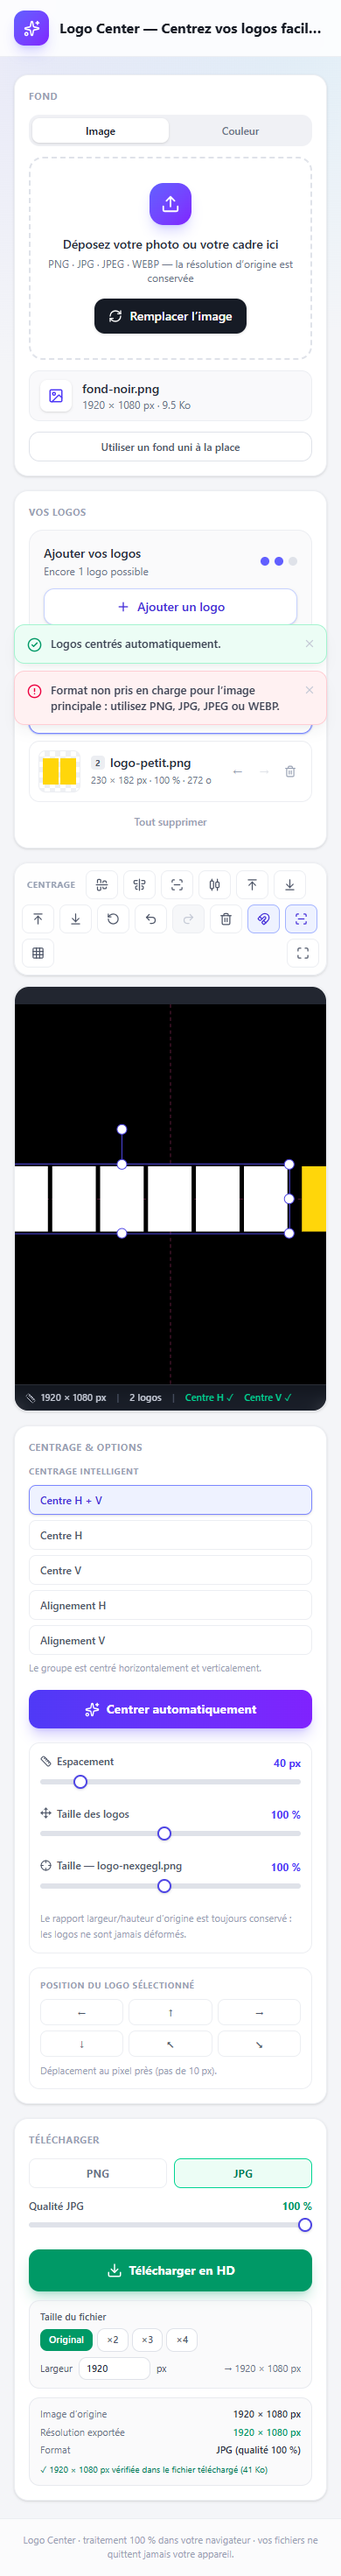
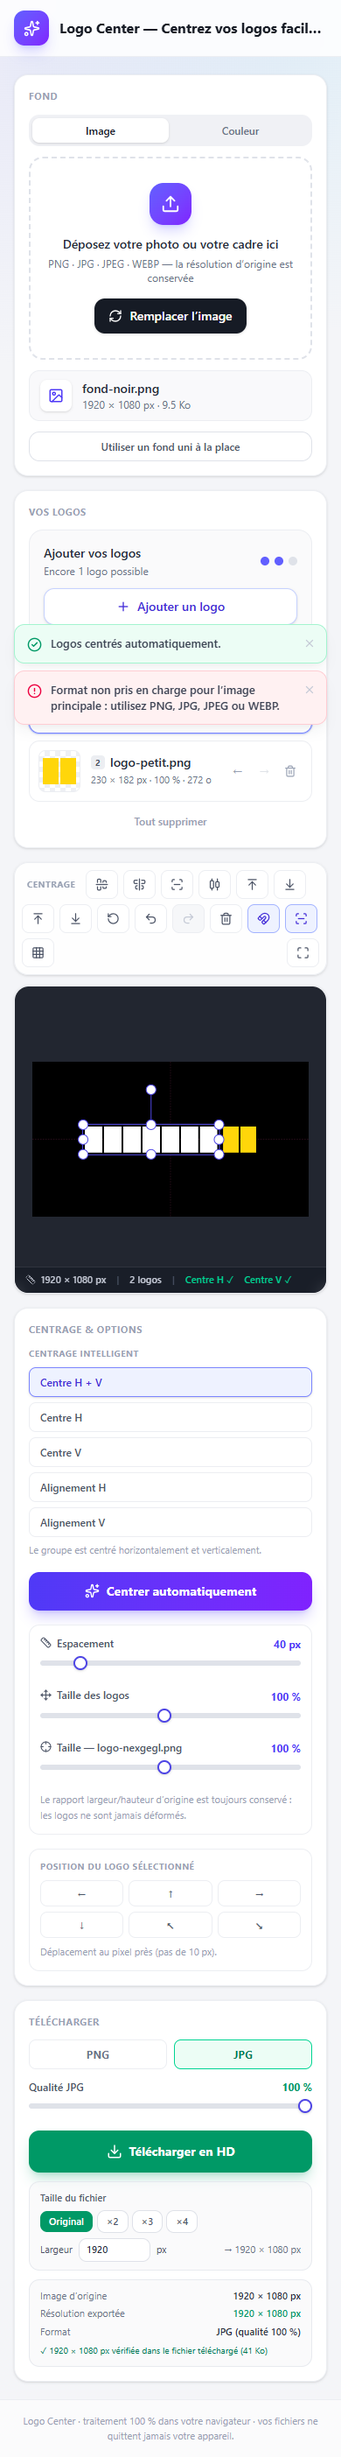
Supprime tout zoom : le fond s'affiche toujours en entier, a la taille choisie
Plus aucun zoom ni dezoom : ni bouton, ni molette, ni pincement. L'echelle est
toujours celle qui fait tenir le fond entier dans la fenetre, et seule la taille
de la fenetre la change.

- CanvasEditor : suppression du zoom a la molette (mouse:wheel) et du pincement
  au toucher, du ResizeObserver conditionnel, de fitZoomRef et de setZoom /
  getZoom du handle imperatif. applyZoom ne recoit plus que le facteur de fit.
- App : l'astuce ne mentionne plus la molette.
- Les 5 formats de fond sont verifies exactement, a l'ecran ET dans le fichier :
  1920x1080, 1080x1080, 2048x2048, 2480x3508 et 3508x2480. Le panneau annonce
  la bonne taille, le canvas a le bon rapport, et le fichier exporte fait
  exactement les pixels demandes.
- E2E : la molette et le pincement ne changent plus la taille du canvas, et le
  fond reste entier dans une fenetre plus petite.
- README : tableau des 5 formats, et mention explicite de l'absence de zoom.

24 sections E2E, npm test et npm run lint au vert.

diff --git a/src/components/CanvasEditor.tsx b/src/components/CanvasEditor.tsx
@@ -44,8 +44,6 @@ export interface EditorApi {
   applySnapshot: (snapshot: EditorSnapshot) => void
   captureSnapshot: (spacing: number) => EditorSnapshot
   fitToScreen: () => void
-  setZoom: (zoom: number) => void
-  getZoom: () => number
   getFrame: () => FrameSize
   getBoxes: () => Box[]
   isReady: () => boolean
@@ -116,9 +114,7 @@ export const CanvasEditor = forwardRef<EditorApi, CanvasEditorProps>(function Ca
   const snapRef = useRef(snapEnabled)
   const activeIdRef = useRef(activeId)
   const zoomRef = useRef(1)
-  const fitZoomRef = useRef(1)
   const syncingFromReact = useRef(false)
-  const gestureRef = useRef<{ distance: number; zoom: number } | null>(null)
 
   // Latest callbacks, kept in refs so that the fabric listeners (registered
   // once) always call the current version without being re-registered.
@@ -352,9 +348,14 @@ export const CanvasEditor = forwardRef<EditorApi, CanvasEditorProps>(function Ca
   }, [])
 
   /* ------------------------------------------------------------------ */
-  /*                                Zoom                                */
+  /*                          Fit to the viewport                        */
   /* ------------------------------------------------------------------ */
 
+  /**
+   * The only zoom that exists: whatever makes the whole plate visible. There is
+   * no wheel, no pinch and no zoom button, so this is always the fit factor and
+   * `next` comes from `computeFitZoom` alone.
+   */
   const applyZoom = useCallback((next: number) => {
     const canvas = canvasRef.current
     const currentFrame = frameRef.current
@@ -379,9 +380,7 @@ export const CanvasEditor = forwardRef<EditorApi, CanvasEditorProps>(function Ca
   }, [])
 
   const fitToScreen = useCallback(() => {
-    const zoom = computeFitZoom()
-    fitZoomRef.current = zoom
-    applyZoom(zoom)
+    applyZoom(computeFitZoom())
   }, [applyZoom, computeFitZoom])
 
   /* ------------------------------------------------------------------ */
@@ -626,24 +625,6 @@ export const CanvasEditor = forwardRef<EditorApi, CanvasEditorProps>(function Ca
       handlers.current.onCommit('move', previous)
     }
 
-    const handleMouseWheel = (opt: fabric.TPointerEventInfo<WheelEvent>) => {
-      const event = opt.e
-      event.preventDefault()
-      event.stopPropagation()
-      const delta = event.deltaY
-      const factor = 0.999 ** delta
-      const next = clamp(zoomRef.current * factor, MIN_ZOOM, MAX_ZOOM)
-      const zoom = canvas.getZoom()
-      if (zoom === next) return
-      canvas.zoomToPoint(new fabric.Point(event.offsetX, event.offsetY), next)
-      zoomRef.current = next
-      canvas.setDimensions({
-        width: (frameRef.current?.width ?? canvas.getWidth() / zoom) * next,
-        height: (frameRef.current?.height ?? canvas.getHeight() / zoom) * next,
-      })
-      canvas.requestRenderAll()
-    }
-
     canvas.on('selection:created', handleSelection)
     canvas.on('selection:updated', handleSelection)
     canvas.on('selection:cleared', handleSelection)
@@ -671,7 +652,6 @@ export const CanvasEditor = forwardRef<EditorApi, CanvasEditorProps>(function Ca
     canvas.on('object:moving', handleObjectMoving)
     canvas.on('object:scaling', handleScaling)
     canvas.on('object:modified', handleModified)
-    canvas.on('mouse:wheel', handleMouseWheel)
 
     return () => {
       canvas.off()
@@ -776,64 +756,15 @@ export const CanvasEditor = forwardRef<EditorApi, CanvasEditorProps>(function Ca
     }
   }, [activeId, geometrySignature])
 
-  // Keep the "fit" zoom in sync with the container size.
+  // The plate always fills the available space: the zoom is whatever fits, so
+  // a resize simply re-fits. There is no user-controlled zoom any more.
   useEffect(() => {
     const shell = shellRef.current
     if (!shell || typeof ResizeObserver === 'undefined') return
-    const observer = new ResizeObserver(() => {
-      const currentFrame = frameRef.current
-      if (!currentFrame) return
-      const zoom = computeFitZoom()
-      fitZoomRef.current = zoom
-      // Only re-fit automatically while the user is at the previous fit zoom.
-      if (Math.abs(zoomRef.current - fitZoomRef.current) < 0.001 || Math.abs(zoomRef.current - 1) < 0.001) {
-        applyZoom(zoom)
-      }
-    })
+    const observer = new ResizeObserver(() => applyZoom(computeFitZoom()))
     observer.observe(shell)
     return () => observer.disconnect()
   }, [applyZoom, computeFitZoom])
-
-  // Pinch to zoom on touch devices.
-  useEffect(() => {
-    const shell = shellRef.current
-    if (!shell) return
-
-    const getDistance = (touches: TouchList) => {
-      const [a, b] = [touches[0], touches[1]]
-      return Math.hypot(a.clientX - b.clientX, a.clientY - b.clientY)
-    }
-
-    const onTouchStart = (event: TouchEvent) => {
-      if (event.touches.length !== 2) return
-      gestureRef.current = { distance: getDistance(event.touches), zoom: zoomRef.current }
-    }
-
-    const onTouchMove = (event: TouchEvent) => {
-      const gesture = gestureRef.current
-      if (!gesture || event.touches.length !== 2) return
-      event.preventDefault()
-      const distance = getDistance(event.touches)
-      const next = clamp((gesture.zoom * distance) / gesture.distance, MIN_ZOOM, MAX_ZOOM)
-      if (Math.abs(next - zoomRef.current) < 0.0005) return
-      applyZoom(next)
-    }
-
-    const onTouchEnd = () => {
-      gestureRef.current = null
-    }
-
-    shell.addEventListener('touchstart', onTouchStart, { passive: true })
-    shell.addEventListener('touchmove', onTouchMove, { passive: false })
-    shell.addEventListener('touchend', onTouchEnd)
-    shell.addEventListener('touchcancel', onTouchEnd)
-    return () => {
-      shell.removeEventListener('touchstart', onTouchStart)
-      shell.removeEventListener('touchmove', onTouchMove)
-      shell.removeEventListener('touchend', onTouchEnd)
-      shell.removeEventListener('touchcancel', onTouchEnd)
-    }
-  }, [applyZoom])
 
   /* ------------------------------------------------------------------ */
   /*                          Imperative API                            */
@@ -981,13 +912,11 @@ export const CanvasEditor = forwardRef<EditorApi, CanvasEditorProps>(function Ca
         }),
       }),
       fitToScreen,
-      setZoom: (zoom: number) => applyZoom(zoom),
-      getZoom: () => zoomRef.current,
       getFrame: () => frameRef.current ?? { width: 0, height: 0 },
       getBoxes: () => readBoxes(),
       isReady: () => canvasRef.current !== null,
     }),
-    [applyBoxes, applyZoom, emitGroupStats, fitToScreen, getLogoObjects, logos, readBoxes, runLayout],
+    [applyBoxes, emitGroupStats, fitToScreen, getLogoObjects, logos, readBoxes, runLayout],
   )
 
   return (

diff --git a/scripts/e2e.ts b/scripts/e2e.ts
@@ -1594,7 +1594,104 @@ async function main() {
     await page5.close()
 
     /* ---------------------------------------------------------------- */
-    console.log('\n[23] Aucune erreur JavaScript')
+    console.log('\n[23] Les 5 formats de fond, et aucun zoom possible')
+    // The five presets must be honoured exactly, on screen and in the file.
+    // Zoom is gone: no wheel, no pinch, no button, so the plate always shows
+    // whole and the exported file is the size that was chosen.
+    const page6 = await browser.newPage()
+    await page6.setViewport({ width: 1600, height: 1000, deviceScaleFactor: 1 })
+    await page6.goto(URL, { waitUntil: 'networkidle0' })
+    await new Promise((resolve) => setTimeout(resolve, 500))
+    await page6.evaluate(snippetClickText(['Partir d’un fond noir']))
+    await page6.waitForSelector('canvas.upper-canvas', { timeout: 20000 })
+    await new Promise((resolve) => setTimeout(resolve, 800))
+    // The export button stays disabled without a logo, so add one.
+    await uploadLogos(page6, [fixtures.alfia])
+    await page6.waitForFunction('/alfia/i.test(document.body.innerText)', { timeout: 20000 })
+    await new Promise((resolve) => setTimeout(resolve, 600))
+    const PRESETS: [string, number, number][] = [
+      ['1920 × 1080 — 16:9', 1920, 1080],
+      ['1080 × 1080 — 1:1', 1080, 1080],
+      ['2048 × 2048 — 1:1', 2048, 2048],
+      ['2480 × 3508 — A4 portrait', 2480, 3508],
+      ['3508 × 2480 — A4 paysage', 3508, 2480],
+    ]
+    const screenBox = () =>
+      page6.evaluate(`
+        (function () {
+          var el = document.querySelector('canvas.lower-canvas');
+          return el ? [el.width, el.height] : null;
+        })()
+      `) as Promise<number[] | null>
+    for (const [label, width, height] of PRESETS) {
+      const picked = await page6.evaluate(snippetClickText([label], true))
+      await new Promise((resolve) => setTimeout(resolve, 700))
+      const box = await screenBox()
+      // The panel and the status bar must state the chosen size.
+      const shown = (await page6.evaluate('document.body.innerText')).includes(`→ ${width} × ${height} px`)
+      const ratio = box ? box[0] / box[1] : 0
+      const shapeOk = Math.abs(ratio - width / height) < 0.02
+      const exported = (await exportOnce(page6, downloadDir)) as { savedTo?: string }
+      const disk = exported.savedTo ? readFileDimensions(exported.savedTo) : null
+      check(
+        `${label} : taille annoncée, forme à l’écran et fichier`,
+        picked !== null &&
+          shown &&
+          shapeOk &&
+          disk !== null &&
+          disk.width === width &&
+          disk.height === height,
+        `-> annoncé ${shown ? 'oui' : 'non'} · écran ${JSON.stringify(box)} · fichier ${disk ? `${disk.width}x${disk.height}` : 'non exporté'}`,
+      )
+    }
+    // Zoom attempts must all be ignored.
+    const beforeZoom = await screenBox()
+    for (let i = 0; i < 5; i++) {
+      await page6.mouse.move(700, 500)
+      await page6.mouse.wheel({ deltaY: -240 })
+    }
+    await new Promise((resolve) => setTimeout(resolve, 500))
+    check(
+      'la molette ne zoome plus',
+      JSON.stringify(await screenBox()) === JSON.stringify(beforeZoom),
+      `-> ${JSON.stringify(beforeZoom)} avant, ${JSON.stringify(await screenBox())} après`,
+    )
+    await page6.evaluate(`
+      (function () {
+        var el = document.querySelector('canvas.upper-canvas');
+        function t(type, points) {
+          var list = points.map(function (p, i) {
+            return new Touch({ identifier: i, target: el, clientX: p[0], clientY: p[1] });
+          });
+          el.dispatchEvent(new TouchEvent(type, {
+            touches: list, targetTouches: list, changedTouches: list, bubbles: true, cancelable: true,
+          }));
+        }
+        t('touchstart', [[600, 400], [700, 500]]);
+        t('touchmove', [[400, 200], [900, 700]]);
+        t('touchend', []);
+        return true;
+      })()
+    `)
+    await new Promise((resolve) => setTimeout(resolve, 500))
+    check(
+      'le pincement ne zoome plus',
+      JSON.stringify(await screenBox()) === JSON.stringify(beforeZoom),
+      `-> ${JSON.stringify(await screenBox())}`,
+    )
+    // A smaller window must still show the whole plate, never a crop.
+    await page6.setViewport({ width: 1100, height: 800, deviceScaleFactor: 1 })
+    await new Promise((resolve) => setTimeout(resolve, 800))
+    const shrunk = await screenBox()
+    check(
+      'le fond entier reste visible dans une fenêtre plus petite',
+      shrunk !== null && shrunk[0] <= 1100 && shrunk[1] <= 800,
+      `-> canvas ${JSON.stringify(shrunk)} pour un fond 3508 × 2480`,
+    )
+    await page6.close()
+
+    /* ---------------------------------------------------------------- */
+    console.log('\n[24] Aucune erreur JavaScript')
     const relevant = consoleErrors.filter((e) => !/favicon|404|Failed to load resource/i.test(e))
     check('aucune erreur console', relevant.length === 0, `-> ${relevant.slice(0, 5).join(' | ')}`)
 

diff --git a/src/App.tsx b/src/App.tsx
@@ -999,7 +999,7 @@ function Intro({
 
         <p className="mt-6 flex items-center justify-center gap-2 text-xs text-ink-400">
           <MousePointerClick size={14} />
-          Astuce : molette pour zoomer, glisser-déposer pour déplacer, poignée pour redimensionner.
+                  Astuce : glisser-déposer pour déplacer, poignée pour redimensionner.
         </p>
       </div>
     </div>

diff --git a/README.md b/README.md
@@ -17,9 +17,11 @@ Tout se passe **dans le navigateur** : aucune donnée n’est envoyée sur un se
   `alignement vertical`.
 - Ajustements fins : bord gauche / droit / haut / bas, distribution horizontale, pas à pas de 1 px.
 - Déplacement et redimensionnement à la souris (ratio jamais déformé, redimensionnement autour
-  du centre), ajustement à l’écran d’un clic.
-- **Pas de boutons zoom / dézoom** : l’écran montre le fond entier, le bouton **Ajuster** remet la
-  vue en place. Le zoom à la molette et au pincement reste disponible pour inspecter un détail.
+  du centre).
+- **Aucun zoom, ni dézoom** : ni bouton, ni molette, ni pincement. Le fond est toujours affiché en
+  entier, à la taille qui tient dans la fenêtre, et la seule chose qui change l’échelle est le
+  redimensionnement de la fenêtre. Le fond affiché a toujours le même rapport que celui demandé,
+  donc un `2480 × 3508` se voit en portrait, entier, jamais rogné.
 - Aimant optionnel, grille, repères de centrage, annuler / rétablir.
 - Export **PNG ou JPG à la résolution d’origine**, sans interface, sans repères, sans grille.
 
@@ -30,8 +32,17 @@ Le fond n’est pas obligé d’être une photo. Au premier écran, on choisit e
 
 - **Image** : la photo, le cadre ou le fond de votre choix, à sa résolution d’origine.
 - **Couleur** : un sélecteur de couleur, 6 préréglages (noir, blanc, gris clair, gris, gris foncé,
-  marine) et un champ largeur × hauteur en pixels, plus 5 formats courants (16:9, 1:1, A4 portrait et
-  paysage). Le préréglage noir est proposé dès l’accueil, c’est le cas le plus courant.
+  marine) et un champ largeur × hauteur en pixels, plus 5 formats courants :
+
+  | Format | Définition |
+  | --- | --- |
+  | 16:9 | 1920 × 1080 |
+  | 1:1 | 1080 × 1080 |
+  | 1:1 | 2048 × 2048 |
+  | A4 portrait | 2480 × 3508 |
+  | A4 paysage | 3508 × 2480 |
+
+  Le préréglage noir est proposé dès l’accueil, c’est le cas le plus courant.
 
 Le fond uni n’est pas un simple aplat d’aperçu : à l’export, le canvas est **rempli** avec la couleur
 sur toute la surface, donc un fond agrandi reste parfaitement net. Comme pour une image, la taille
@@ -143,6 +154,7 @@ Node**, sans navigateur : c’est la seule vérification que l’application ne 
 | fond uni **noir 1920 × 1080** | 790 px | **1920 × 1080** | — | coins (0, 0, 0) |
 | fond uni **gris #9ca3af** | 790 px | **1920 × 1080** | — | coins (156, 163, 175) |
 | fond uni **gris 1080 × 1080** | 790 px | **1080 × 1080** | — | groupe centré 540 / 540 |
+| fond uni **A4 portrait 2480 × 3508** | 790 px | **2480 × 3508** | — | annoncé et fichier conformes |
 
 Le test de netteté est **calibré** : en forçant une miniature à 40 % à l’import, le logo à rayures
 perd toutes ses transitions (198 → 0) et la rampe passe de 1 px à 206 px. La mesure est donc
@@ -159,7 +171,7 @@ Changer la couleur ne changeait **rien à l’écran** : le fichier exporté ét
 couleur, mais le canvas affichait encore l’ancienne. La cause : `dispose()` sur un objet Fabric le
 libère sans le détacher du canvas. L’ancien rectangle restait donc peint **par-dessus** son
 remplacement (l’objet est envoyé à l’arrière-plan, ce qui fait remonter l’ancien au premier plan), et
-un redraw forcé — zoom, redimensionnement de fenêtre — ne le retirait pas.
+un redraw forcé — par exemple un redimensionnement de fenêtre — ne le retirait pas.
 
 Le correctif est un `dropObject()` qui fait `canvas.remove(obj)` **puis** `obj.dispose()`, utilisé
 pour le fond, la grille et les repères de centre. Les logos, eux, faisaient déjà l’opération dans
@@ -208,12 +220,12 @@ régression (`2 TESTS EN ECHEC`), puis avec le nouveau code.
 src/
   App.tsx                  état global, historique, raccourcis, export, mise en page
   components/
-    CanvasEditor.tsx       canvas Fabric, objets, zoom, repères, aimant, échelle
+    CanvasEditor.tsx       canvas Fabric, objets, repères, aimant, échelle
     BackgroundPanel.tsx    onglet Image / Couleur, couleur, dimensions du fond
     ImageUploader.tsx      import de l’image principale
     LogoUploader.tsx       ajout / liste / miniatures / ordre des logos
     LogoControls.tsx       modes, espacement, tailles, ajustements
-    Toolbar.tsx            centrage, distribution, annuler, repères, ajuster à l’écran
+    Toolbar.tsx            centrage, distribution, annuler, repères, grille
     ExportButton.tsx       export PNG / JPG, taille de sortie
     ToastStack.tsx         messages utilisateur
   utils/
